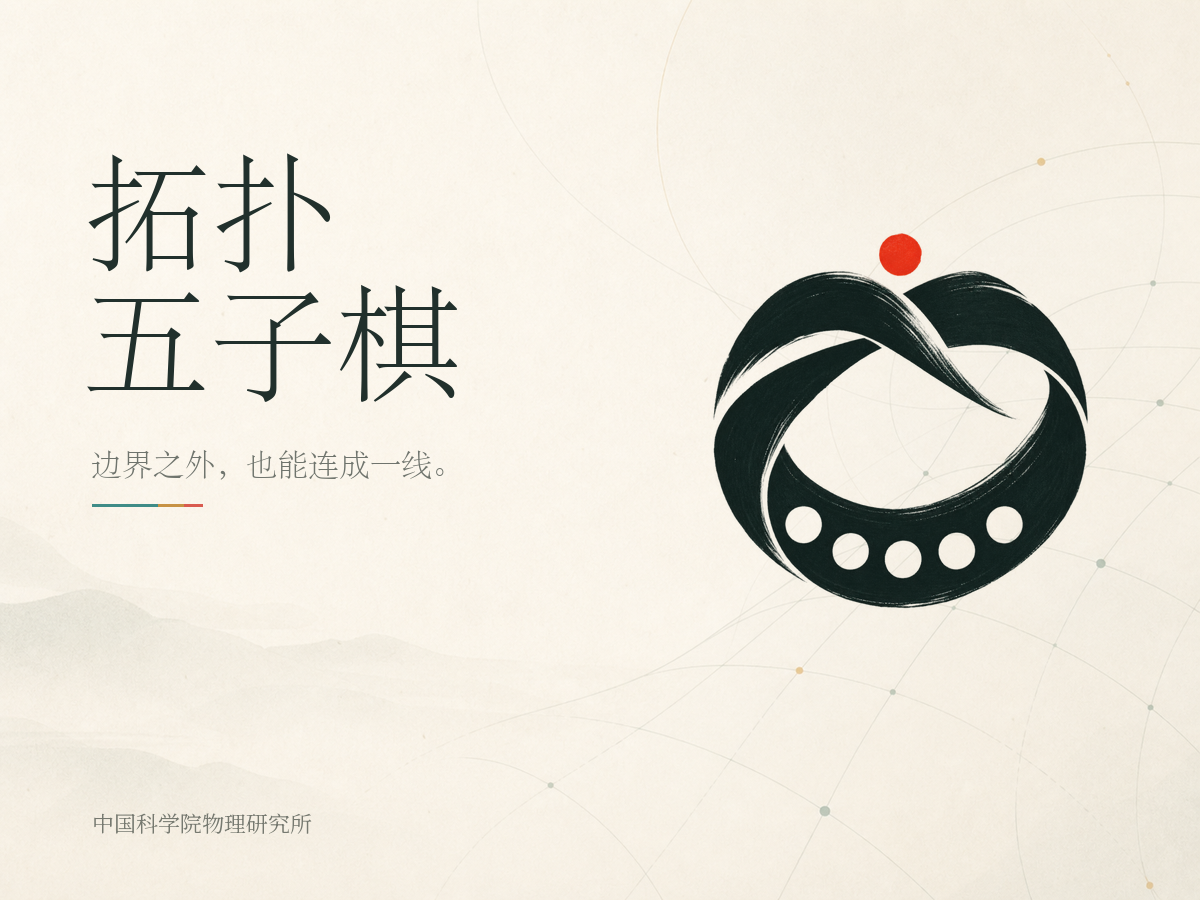
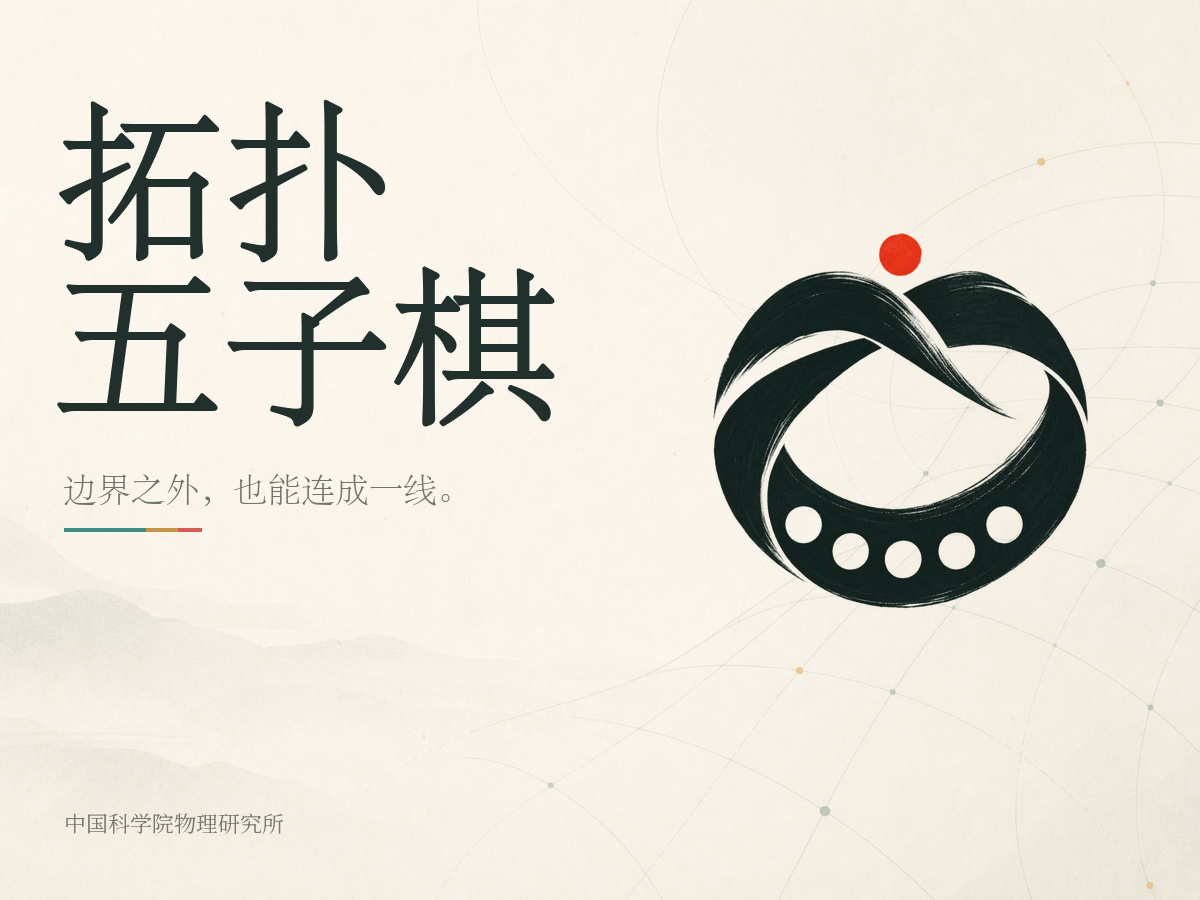
fix: improve Toy cover thumbnail legibility

diff --git a/scripts/compose_toy_cover.py b/scripts/compose_toy_cover.py
@@ -29,20 +29,20 @@ def main() -> None:
     background.paste(brand, (brand_x, brand_y), brand)
 
     draw = ImageDraw.Draw(background)
-    title_font = ImageFont.truetype(str(TITLE_FONT), 126)
-    subtitle_font = ImageFont.truetype(str(TITLE_FONT), 31)
+    title_font = ImageFont.truetype(str(TITLE_FONT), 168)
+    subtitle_font = ImageFont.truetype(str(TITLE_FONT), 34)
     institution_font = ImageFont.truetype(str(INSTITUTION_FONT), 22)
 
-    draw.text((84, 126), "拓扑", font=title_font, fill=INK, stroke_width=0)
-    draw.text((84, 257), "五子棋", font=title_font, fill=INK, stroke_width=0)
-    draw.text((91, 443), "边界之外，也能连成一线。", font=subtitle_font, fill=MUTED)
+    draw.text((55, 66), "拓扑", font=title_font, fill=INK, stroke_width=2, stroke_fill=INK)
+    draw.text((55, 232), "五子棋", font=title_font, fill=INK, stroke_width=2, stroke_fill=INK)
+    draw.text((63, 466), "边界之外，也能连成一线。", font=subtitle_font, fill=MUTED)
 
-    line_y = 505
-    draw.line((92, line_y, 158, line_y), fill=TEAL, width=3)
-    draw.line((158, line_y, 184, line_y), fill=GOLD, width=3)
-    draw.line((184, line_y, 202, line_y), fill=RED, width=3)
+    line_y = 529
+    draw.line((64, line_y, 146, line_y), fill=TEAL, width=4)
+    draw.line((146, line_y, 178, line_y), fill=GOLD, width=4)
+    draw.line((178, line_y, 201, line_y), fill=RED, width=4)
 
-    draw.text((92, 806), "中国科学院物理研究所", font=institution_font, fill="#767970")
+    draw.text((64, 806), "中国科学院物理研究所", font=institution_font, fill="#767970")
 
     OUTPUT.parent.mkdir(parents=True, exist_ok=True)
     background.save(OUTPUT, format="PNG", optimize=True)
